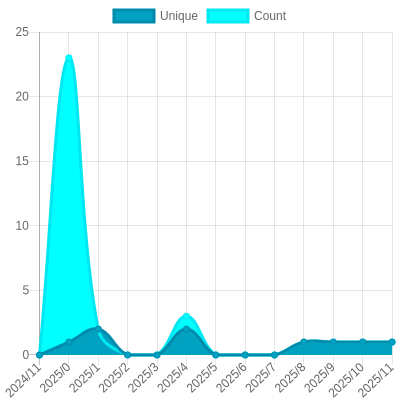
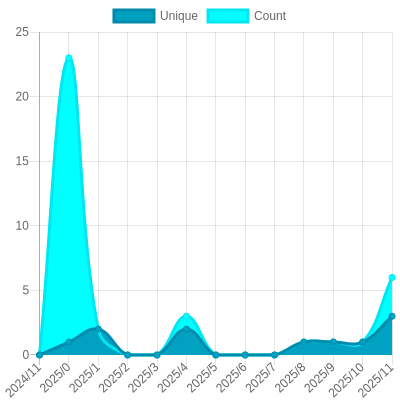
Update views

Changed region(s): [[0.84, 0.69, 0.99, 0.87]]

diff --git a/readme/749879295/year.md b/readme/749879295/year.md
@@ -23,10 +23,10 @@
 			<code>2024/12/1</code>
 		</td>
 		<td>
-			<code>1</code>
+			<code>3</code>
 		</td>
 		<td>
-			<code>1</code>
+			<code>6</code>
 		</td>
 	</tr>
 	<tr>
@@ -164,7 +164,7 @@
 </table>
 
 </details>
-<small><i>Last updated on 2024/12/28 12:35 PM UTC</i></small>
+<small><i>Last updated on 2024/12/28 6:24 PM UTC</i></small>
 
 ## ✂Copy and 📋 Paste
 ### SVG Badge

diff --git a/README.md b/README.md
@@ -37,7 +37,7 @@ The project created and maintained by [gayanvoice](https://github.com/gayanvoice
 	</tr>
 </table>
 
-<small><i>Last updated on 2024/12/28 12:36 PM UTC</i></small>
+<small><i>Last updated on 2024/12/28 6:24 PM UTC</i></small>
 
 ## ✂Copy and 📋 Paste
 ### Total Views Badge
